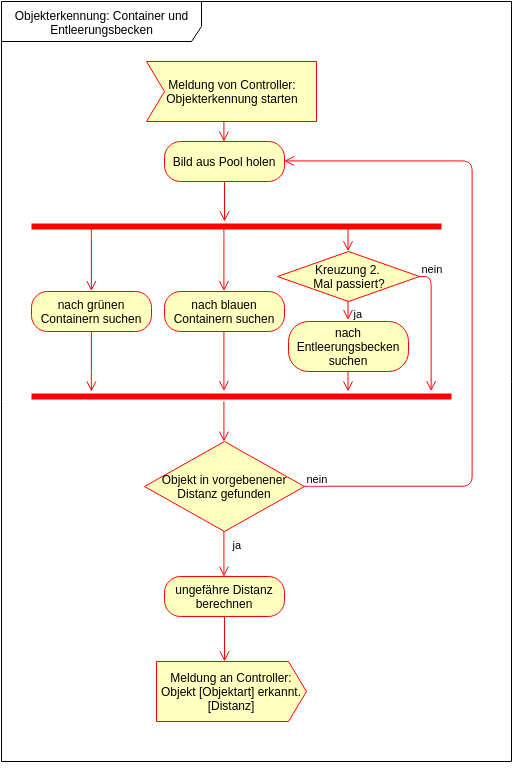
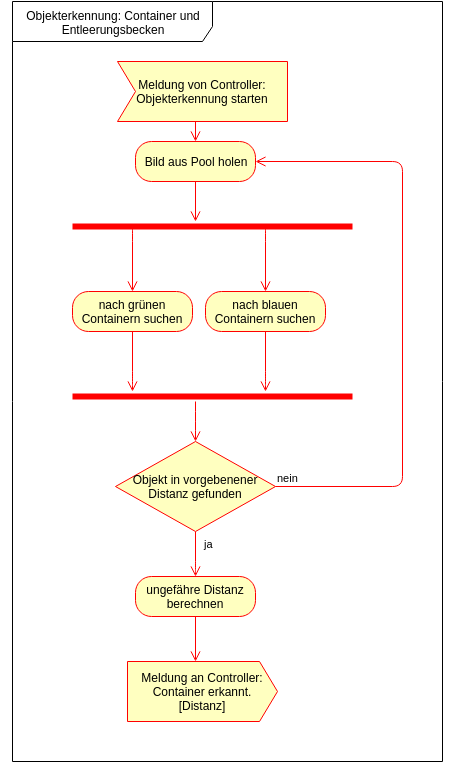
Doku Objekterkennung

diff --git a/Pren2/GesamtDoku/03_Loesungskonzept/objekterkennung.tex b/Pren2/GesamtDoku/03_Loesungskonzept/objekterkennung.tex
@@ -8,23 +8,44 @@ Die Aufgabe der \glqq{Objekterkennung grob}\grqq ist es, die aufzuladenden Conta
 \underline{\textbf{Container}}
 \\[0.2cm]
 \textbf{Funktionsbeschrieb}\\[0.2cm]
-Bei der Container- und Entleerungsbeckenerkennung werden grüne und blaue Container erkannt. Wird eines dieser Objekte erkannt, wird der Controller darüber informiert, damit sich das Fahrzeug auf das Aufladen vorbereiten kann. Das Entleerungsbecken wird nicht mehr, wie in der Konzeptphase geplant, über die Objekterkennung erkannt. Da das Entleerungsbecken weiss ist, würde es bei der Farberkennung zu viele Störobjekte haben. Neu ist die Fahrbahnerkennung dafür verantwortlich.
+Die Objekterkennung ist zuständig, dass die blauen und Container, welche am Strassenrand stehen, erkannt werden. Wird ein solches Objekt erkannt, wird der Controller darüber informiert, welcher die Informationen anschliessend an den Microcontroller weiterleitet. Das Entleerungsbecken wird nicht mehr, wie in der Konzeptphase geplant, über die Objekterkennung erkannt. Da das Entleerungsbecken weiss ist, würde es bei der Farberkennung zu viele Störobjekte haben. Neu ist die Fahrbahnerkennung dafür verantwortlich.
 \\[0.2cm]
 Sobald die ersten Bilder mit der Kamera aufgenommen wurden, werden diese laufend aus dem Bilderpool abgefragt und untersucht. Dabei läuft die Erkennung von grünen und blauen Containern parallel ab.
 \begin{figure}[H]%Position festigen
 \centering
 \includegraphics[width=0.6\textwidth]{03_Loesungskonzept/pictures/objekterkennung_containers.png}
-\caption{Aktivitätendiagramm Obkjekterkennung: Container und Entleerungsbecken}
+\caption{Aktivitätendiagramm Obkjekterkennung: Container}
 \label{fig:activityContainer}
 \end{figure}
 \newpage
-Die Erkennung läuft dabei immer gleich ab. Als erstes wird das Bild mit OpenCV nach der entsprechenden Farbe gefiltert. Sprich: Es wird nur nach Grün- und Blautönen gesucht. Anschliessend werden mit Hilfe einer Konturerkennung störende und falsche Objekte entfernt. Mit der Höhe dieser Objekte kann dann ausgerechnet werden, wie weit das Objekt  noch entfernt ist. Diese Distanzberechnung liefert nur ein ungefähres Ergebnis. Ist das Objekt zu weit entfernt, wird der zentrale Controller nicht informiert. Ansonsten wird eine Meldung an den Controller gesendet, welche die Distanz enthält. Die folgende Darstellung soll die einzelnen Schritte verdeutlichen.
-\\[0.2cm]
-\underline{\textbf{Rechtsvortritt}}\\[0.2cm]
-Damit Kollisionen mit anderen Fahrzeugen vermieden werden können, wurde ein Ultraschallsensor eingebaut. Dieser misst über kurze Ultraschallpulse die Distanz zum nächsten Objekt. Die Ansteuerung und Auswertung wurde auf dem Mikrocontrollerboard realisiert. Die Grundlage der Implementierung basiert auf diesem Tutorial: mcuoneclipse.com. Jedoch wurde dieser Code noch effizienter gestaltet.\\[0.2cm]
-\textbf{Vergleich Konzept und Umsetzung}\\[0.2cm]
-Die Ansteuerung des Ultraschallsensor konnte bereits im Pren1 als Funktionsmuster erfolgreich getestet werden. Daher musste im Pren2 nichts am bestehenden Konzept geändert werden.
+Die Erkennung läuft dabei immer gleich ab. Als erstes wird das Bild mit OpenCV nach der entsprechenden Farbe gefiltert. Sprich: Es wird nur nach Grün- und Blautönen gesucht. Anschliessend werden mit Hilfe einer Konturenerkennung störende und falsche Objekte entfernt. Mit störenden Objekten sind Objekte gemeint, welche nicht die Masse eines Containers haben, welcher sich in einem Abstand verbindet, dass er interessant sein könnte. Mit der Höhe dieser Objekte kann dann ausgerechnet werden, wie weit das Objekt  noch entfernt ist. Diese Distanzberechnung liefert nur ein ungefähres Ergebnis. Auf dem Bild wurde eine Meldelinie definiert. Wird diese vom Zentrum des Containers überschritten, wird eine Meldung an den Controller gesendet, welche die Distanz zum Container enthält. Die folgende Darstellung soll die einzelnen Schritte verdeutlichen.
+\begin{figure}[H]%Position festigen
+\centering
+\includegraphics[width=1\textwidth]{03_Loesungskonzept/pictures/uebersicht_object.PNG}
+\caption{Ablauf der Obkjekterkennung: Container}
+\label{fig:objectDetectionOverview}
+\end{figure}
+Um den Container zu identifizieren werden die Positionen der Zentren analysiert. Falls sich ein Zentrum um mehr als 10 Pixel seit dem letzten Bild verschoben hat, handelt es sich um einen neuen Container.
 
+Die ungefähre Distanz des Containers wird anhand von Referenzgrössen bestimmt.
+
+\[
+Distanz = \frac{Referenzpixelhöhe\cdot Referenzdistanz}{Pixelhöhe}
+\]
+\begin{figure}[H]%Position festigen
+\centering
+\includegraphics[width=1\textwidth]{03_Loesungskonzept/pictures/distance_reference.png}
+\caption{Distanzbemessung}
+\label{fig:distanceCalculation}
+\end{figure}
+\\[0.2cm]
+\textbf{Vergleich Konzept und Umsetzung}\\[0.2cm]
+Wie bereits erwähnt, ist die Erkennung des Entleerungsbecken nicht mehr Teil der Objekterkennung. Auch der Zeitpunkt für die Meldung an den Container musste überdenkt werden, da der Controller und somit auch das Microcontroller-Board mehrmals über denselben Container informiert worden wäre. Dazu wurde der Meldebalken eingefügt.
+
+\underline{\textbf{Rechtsvortritt}}\\[0.2cm]
+Sobald das Fahrzeug an der Kreuzung angelangt ist, wird dies der Objekterkennung mitgeteilt und die Kamera wird gedreht. Um nun festzustellen werden im aktuellen Bild alle gefundenen Kanten gesucht. Diese Anzahl Kanten wird mit einer Referenzanzahl verglichen. Ist die Anzahl massiv grösser als die Referenzanzahl, wird davon ausgegangen, dass sich ein Fahrzeug an der Kreuzung befindet.\\[0.2cm]
+\textbf{Vergleich Konzept und Umsetzung}\\[0.2cm]
+In Pren1 wurde die Rechtsvortritterkennung aufwändiger geplant. Die Fahrbahnerkennung sollte die Kreuzung erkennen und anschliessend Koordinaten des Bildes an die Objekterkennung senden. Diese Koordinaten waren die Eckpunkte der Fahrbahn, welche sich von rechts nähert. Anschliessen wäre der Bereich untersucht worden, um festzulegen, ob sich ein Fahrzeug darauf befindet oder nicht. Da die Kamera nun jedoch so positioniert werden musste, dass die Fahrbahn möglichst nahe am Fahrzeug schon erkennt werden kann, gehen Informationen in der Ferne verloren. Wobei auch der abzusuchende Teil der Strecke kleiner wurde.
 
 \subsubsection{Objekterkennung präzise}
 \underline{\textbf{Containererkennung}}\\[0.2cm]
@@ -35,4 +56,9 @@ Das Konzept mit dem präzisen anhalten über den Infrarotsensor hat sich im Pren
 \underline{\textbf{Entleerungsbecken Erkennung}} \\[0.2cm]
 Die Erkennung des Entleerungsbecken wurde sehr simpel gelöst. Sobald das Fahrzeug erkennt das es im Zielfels steht, ist bereits klar wo das Entleerungsbecken steht. Somit ist eine extra Erkennung des Entleerungsbecken nicht mehr notwendig.\\[0.2cm]
 \textbf{Vergleich Konzept und Umsetzung}\\[0.2cm]
-Das Konzept zur Detektion des Entleerungsbecken konnte vereinfacht werden. Im Pren1 wurde angenommen, dass man das Entleerungsbecken extra erkennen muss. Es hat sich jetzt jedoch im Pren2 herausgestellt, dass die Fahrpräzision so gut ist, das es keine extra Detektion braucht. (Es muss nicth extra nahe an das Becken herangefahren werden.)
+Das Konzept zur Detektion des Entleerungsbecken konnte vereinfacht werden. Im Pren1 wurde angenommen, dass man das Entleerungsbecken extra erkennen muss. Es hat sich jetzt jedoch im Pren2 herausgestellt, dass die Fahrpräzision so gut ist, das es keine extra Detektion braucht. (Es muss nicht extra nahe an das Becken herangefahren werden.)
+
+\underline{\textbf{Rechtsvortritt}}\\[0.2cm]
+Damit Kollisionen mit anderen Fahrzeugen vermieden werden können, wurde ein Ultraschallsensor eingebaut. Dieser misst über kurze Ultraschallpulse die Distanz zum nächsten Objekt. Die Ansteuerung und Auswertung wurde auf dem Mikrocontrollerboard realisiert. Die Grundlage der Implementierung basiert auf diesem Tutorial: mcuoneclipse.com. Jedoch wurde dieser Code noch effizienter gestaltet.\\[0.2cm]
+\textbf{Vergleich Konzept und Umsetzung}\\[0.2cm]
+Die Ansteuerung des Ultraschallsensor konnte bereits im Pren1 als Funktionsmuster erfolgreich getestet werden. Daher musste im Pren2 nichts am bestehenden Konzept geändert werden.
